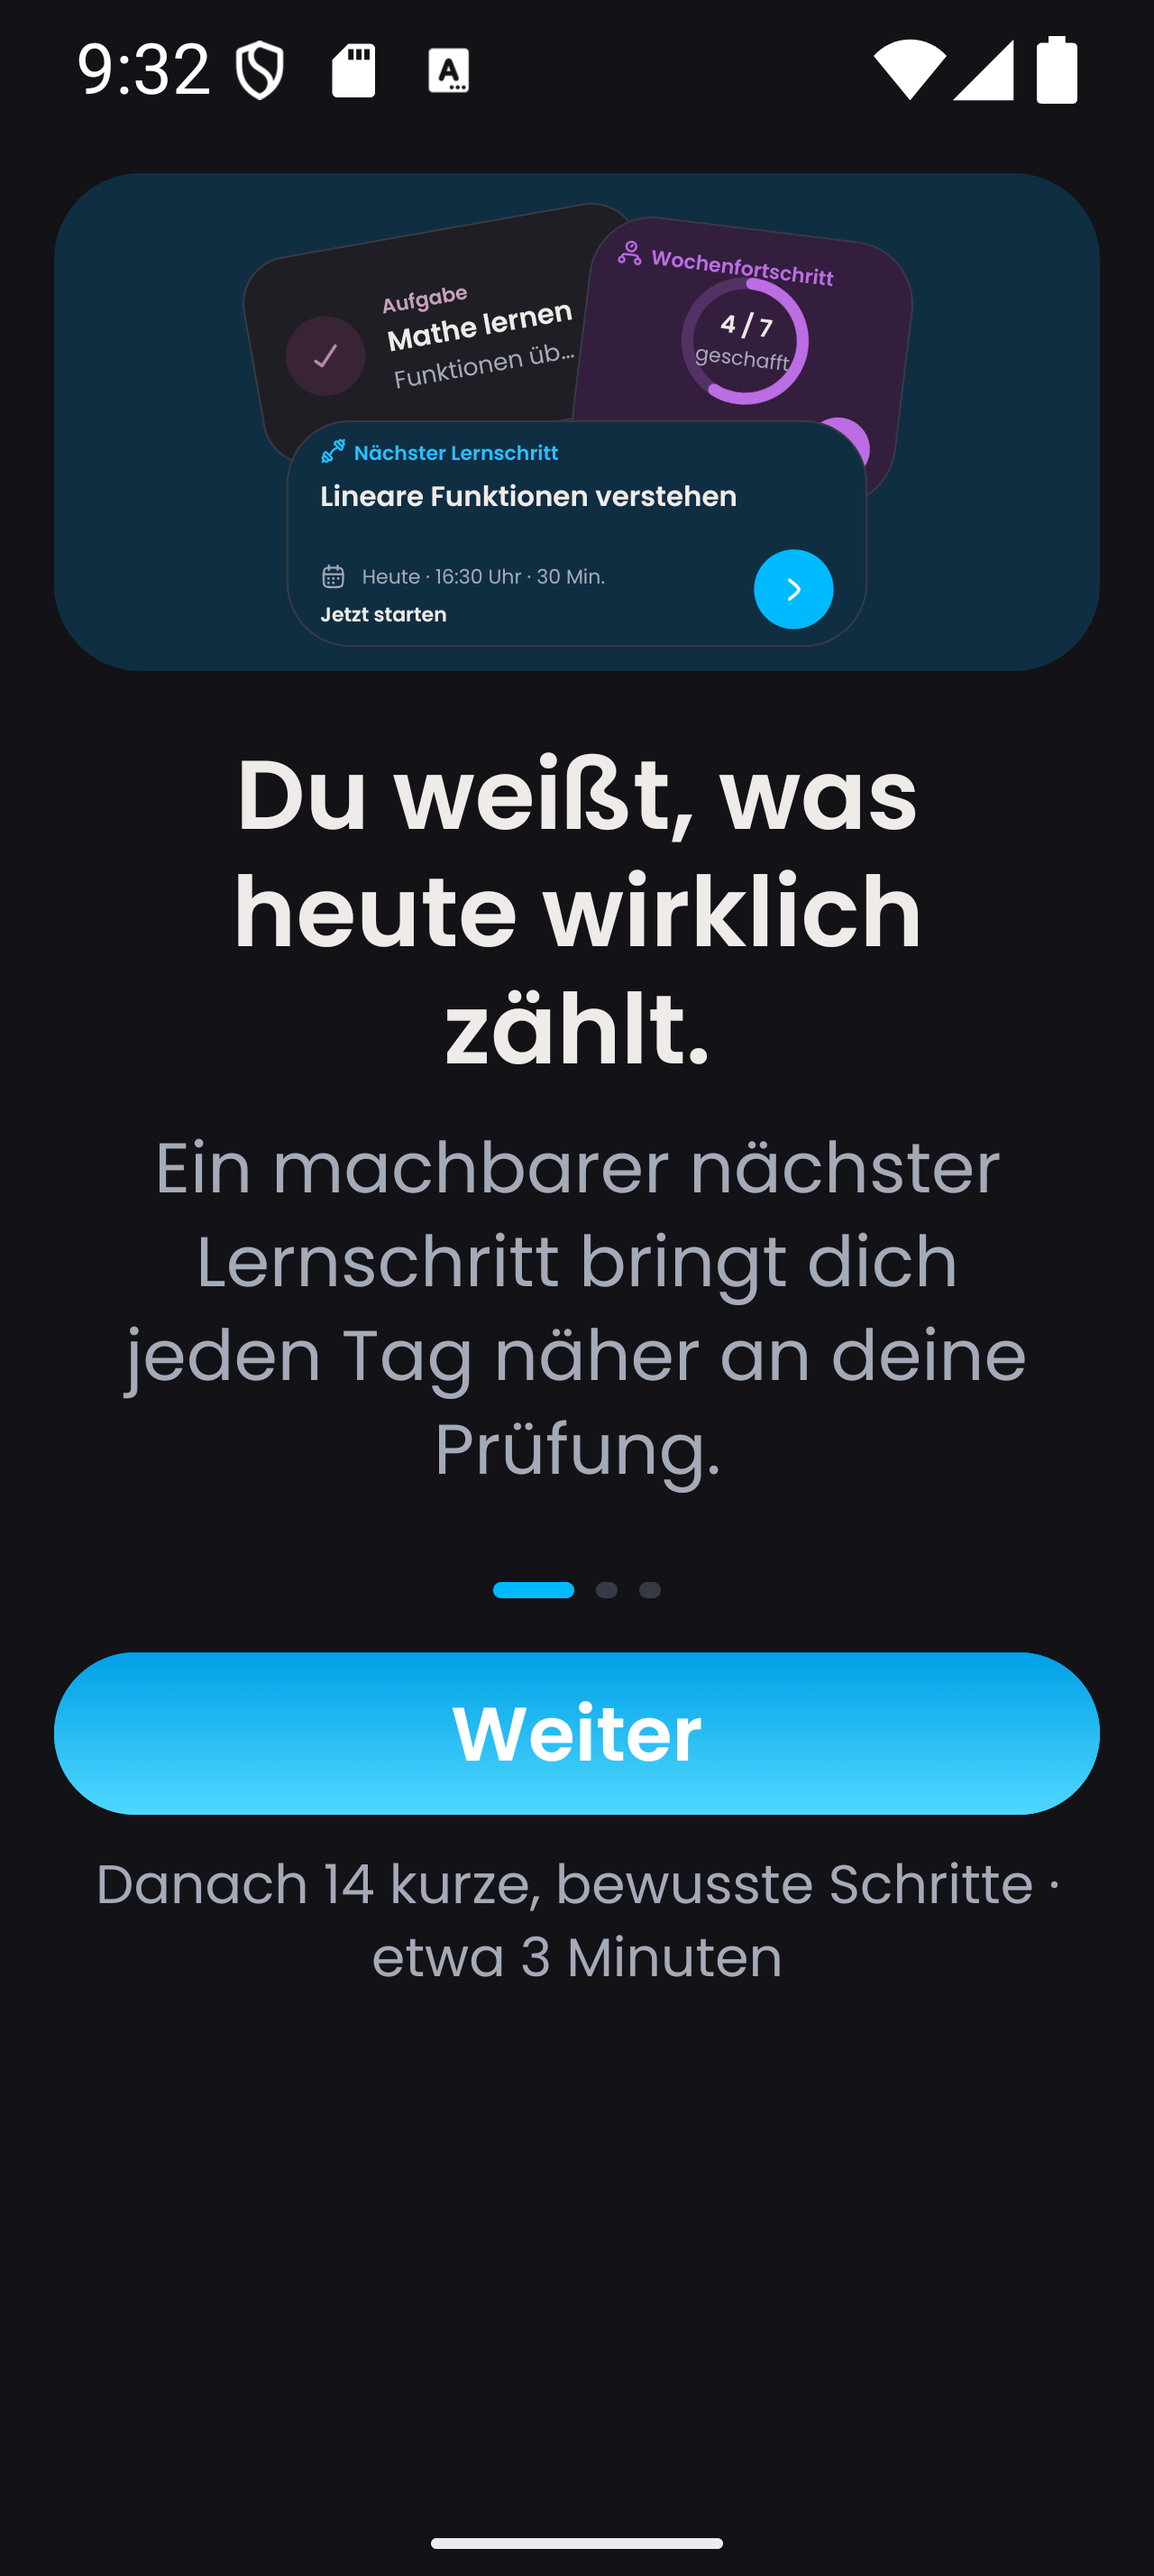
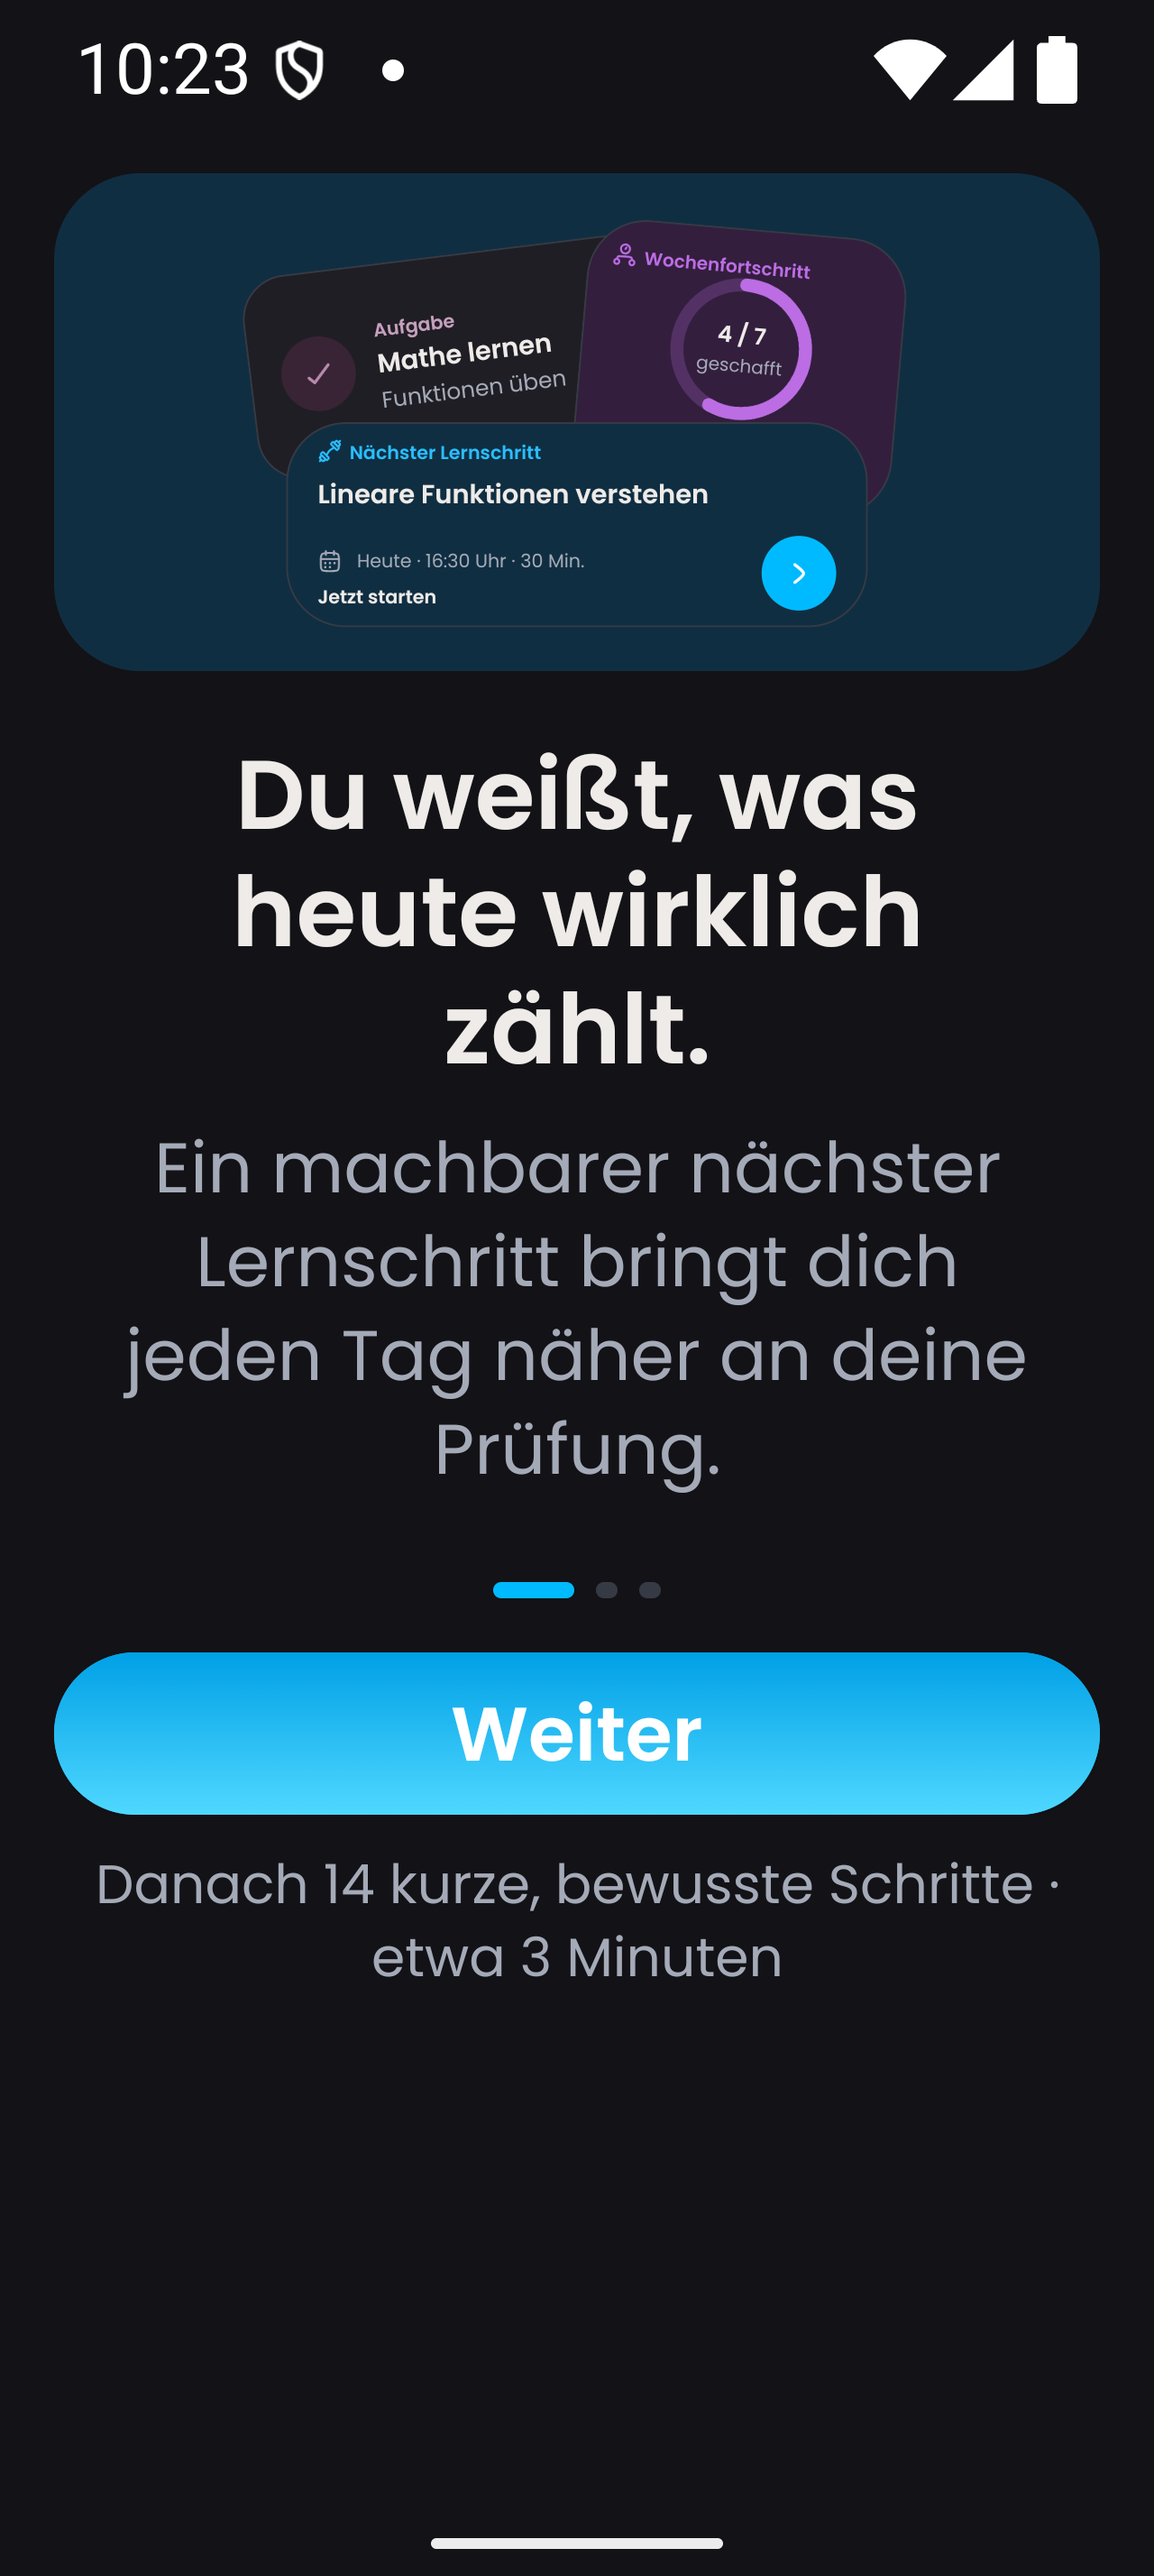
fix(onboarding): polish daily guidance artwork

diff --git a/src/features/dashboard/dashboard-product-cards.tsx b/src/features/dashboard/dashboard-product-cards.tsx
@@ -342,8 +342,8 @@ function DashboardWeeklyProgressCard(props: DashboardWeeklyProgressCardProps) {
 		: hasPlannedSessions
 			? "geschafft"
 			: "geplant";
-	const ringSize = isArtwork ? 64 : 112;
-	const ringStrokeWidth = isArtwork ? 6 : 9;
+	const ringSize = isArtwork ? 76 : 112;
+	const ringStrokeWidth = isArtwork ? 7 : 9;
 	const ringRadius = (ringSize - ringStrokeWidth) / 2;
 	const ringCircumference = 2 * Math.PI * ringRadius;
 	const progressOffset =
@@ -364,7 +364,9 @@ function DashboardWeeklyProgressCard(props: DashboardWeeklyProgressCardProps) {
 				/>
 				<Text
 					allowFontScaling={!isArtwork}
+					adjustsFontSizeToFit={isArtwork}
 					maxFontSizeMultiplier={isArtwork ? 1 : undefined}
+					minimumFontScale={isArtwork ? 0.82 : undefined}
 					className="flex-1 font-poppins font-semibold text-body-5 text-ueben"
 					numberOfLines={isArtwork ? 1 : 2}
 				>
@@ -382,6 +384,7 @@ function DashboardWeeklyProgressCard(props: DashboardWeeklyProgressCardProps) {
 					className="items-center justify-center"
 					// SVG ring geometry uses runtime dimensions for the artwork density.
 					style={{ width: ringSize, height: ringSize }}
+					testID={isArtwork ? "dashboard-progress-artwork-ring" : undefined}
 				>
 					<Svg
 						pointerEvents="none"
@@ -415,10 +418,12 @@ function DashboardWeeklyProgressCard(props: DashboardWeeklyProgressCardProps) {
 					</Svg>
 					<Text
 						allowFontScaling={!isArtwork}
+						adjustsFontSizeToFit={isArtwork}
 						maxFontSizeMultiplier={isArtwork ? 1 : undefined}
+						minimumFontScale={isArtwork ? 0.82 : undefined}
 						className={cn(
 							"font-poppins font-semibold text-text",
-							isArtwork ? "text-body-4" : "text-body-1",
+							isArtwork ? "max-w-16 text-center text-body-4" : "text-body-1",
 						)}
 						numberOfLines={1}
 						style={tabularNumberStyle}
@@ -427,8 +432,13 @@ function DashboardWeeklyProgressCard(props: DashboardWeeklyProgressCardProps) {
 					</Text>
 					<Text
 						allowFontScaling={!isArtwork}
+						adjustsFontSizeToFit={isArtwork}
 						maxFontSizeMultiplier={isArtwork ? 1 : undefined}
-						className="font-poppins text-body-5 text-secondary-text"
+						minimumFontScale={isArtwork ? 0.82 : undefined}
+						className={cn(
+							"font-poppins text-body-5 text-secondary-text",
+							isArtwork && "max-w-16 text-center",
+						)}
 						numberOfLines={1}
 					>
 						{ringLabel}
@@ -438,8 +448,9 @@ function DashboardWeeklyProgressCard(props: DashboardWeeklyProgressCardProps) {
 			<View
 				className={cn(
 					"flex-row items-end justify-between gap-2",
-					isArtwork ? "mt-1" : "mt-4",
+					isArtwork ? "mt-1 pr-3" : "mt-4",
 				)}
+				testID={isArtwork ? "dashboard-progress-artwork-footer" : undefined}
 			>
 				<View className="flex-1 flex-row items-center gap-2 pr-1">
 					{hasPlannedSessions && !isLoading ? (

diff --git a/src/features/dashboard/dashboard-product-cards.ui.test.tsx b/src/features/dashboard/dashboard-product-cards.ui.test.tsx
@@ -102,6 +102,36 @@ describe("shared dashboard product cards", () => {
 		expect(screen.queryAllByRole("button", hidden)).toHaveLength(0);
 	});
 
+	test("keeps artwork progress copy inside a legible ring and header row", async () => {
+		const screen = await render(
+			<DashboardWeeklyProgressCard
+				mode="artwork"
+				progress={progress}
+				testID="progress-artwork"
+			/>,
+		);
+		const hidden = { includeHiddenElements: true };
+
+		expect(
+			screen.getByTestId("dashboard-progress-artwork-ring", hidden),
+		).toHaveStyle({ width: 76, height: 76 });
+		expect(screen.getByText("Wochenfortschritt", hidden)).toHaveProp(
+			"adjustsFontSizeToFit",
+			true,
+		);
+		expect(screen.getByText("Wochenfortschritt", hidden)).toHaveProp(
+			"minimumFontScale",
+			0.82,
+		);
+		expect(screen.getByText("geschafft", hidden).props.className).toContain(
+			"max-w-16",
+		);
+		expect(
+			screen.getByTestId("dashboard-progress-artwork-footer", hidden).props
+				.className,
+		).toContain("pr-3");
+	});
+
 	test("keeps the live dashboard presentations interactive", async () => {
 		const onOpenAgenda = jest.fn();
 		const onOpenNext = jest.fn();
@@ -151,5 +181,8 @@ describe("shared dashboard product cards", () => {
 		expect(onOpenProgress).toHaveBeenCalledTimes(1);
 		expect(onOpenNext).toHaveBeenCalledWith(nextStep);
 		expect(onOpenFallback).not.toHaveBeenCalled();
+		expect(screen.getByText("geschafft").props.className).not.toContain(
+			"max-w-16",
+		);
 	});
 });

diff --git a/src/components/onboarding/intro-tasks-artwork.tsx b/src/components/onboarding/intro-tasks-artwork.tsx
@@ -10,7 +10,7 @@ import {
 	DashboardWeeklyProgressCard,
 } from "~/features/dashboard/dashboard-product-cards";
 
-const ARTWORK_WIDTH = 356;
+const ARTWORK_WIDTH = 380;
 const ARTWORK_HEIGHT = 242;
 const PREVIEW_DAY_KEY = "2026-08-31";
 
@@ -65,7 +65,7 @@ export function IntroTasksArtwork({
 			testID="intro-tasks-artwork"
 		>
 			<View
-				className="h-[242px] w-[356px]"
+				className="h-[242px] w-[380px]"
 				// The fixed artboard scales to the runtime frame while preserving its geometry.
 				style={{ transform: [{ scale }] }}
 				testID="intro-tasks-product-composition"
@@ -113,26 +113,26 @@ export function IntroTasksArtwork({
 // Product structure and tokens stay inside the shared dashboard components.
 const artworkGeometry = StyleSheet.create({
 	agenda: {
-		left: 6,
-		top: 42,
-		width: 202,
-		height: 106,
-		transform: [{ rotate: "-10deg" }],
+		left: 8,
+		top: 45,
+		width: 220,
+		height: 110,
+		transform: [{ rotate: "-7deg" }],
 		transformOrigin: [0, 0, 0],
 	},
 	progress: {
-		left: 188,
-		top: 14,
-		width: 164,
-		height: 134,
-		transform: [{ rotate: "7deg" }],
+		left: 198,
+		top: 10,
+		width: 172,
+		height: 150,
+		transform: [{ rotate: "5deg" }],
 		transformOrigin: [0, 0, 0],
 	},
 	nextStep: {
-		left: 32,
-		top: 120,
+		left: 34,
+		top: 121,
 		zIndex: 2,
-		width: 292,
-		height: 114,
+		width: 312,
+		height: 110,
 	},
 });

diff --git a/src/components/onboarding/intro-tasks-artwork.ui.test.tsx b/src/components/onboarding/intro-tasks-artwork.ui.test.tsx
@@ -63,23 +63,29 @@ describe("IntroTasksArtwork", () => {
 		const hidden = { includeHiddenElements: true };
 
 		expect(screen.getByTestId("intro-tasks-agenda-layer", hidden)).toHaveStyle({
-			left: 6,
-			top: 42,
-			transform: [{ rotate: "-10deg" }],
+			left: 8,
+			top: 45,
+			width: 220,
+			height: 110,
+			transform: [{ rotate: "-7deg" }],
 		});
 		expect(
 			screen.getByTestId("intro-tasks-progress-layer", hidden),
 		).toHaveStyle({
-			left: 188,
-			top: 14,
-			transform: [{ rotate: "7deg" }],
+			left: 198,
+			top: 10,
+			width: 172,
+			height: 150,
+			transform: [{ rotate: "5deg" }],
 		});
 		expect(
 			screen.getByTestId("intro-tasks-next-step-layer", hidden),
 		).toHaveStyle({
-			left: 32,
-			top: 120,
+			left: 34,
+			top: 121,
 			zIndex: 2,
+			width: 312,
+			height: 110,
 		});
 	});
 });

diff --git a/docs/evidence/day-292-onboarding/README.md b/docs/evidence/day-292-onboarding/README.md
@@ -16,6 +16,14 @@ rotation, scale, and shadow. All three shared cards use non-interactive,
 accessibility-hidden artwork mode, while their dashboard screen mode remains
 interactive.
 
+The final containment pass widens the composition artboard so the agenda and
+weekly-progress cards overlap without obscuring their primary copy. Artwork
+mode uses a larger progress ring, bounded single-line labels, and a tucked
+action affordance; the foreground card fully owns the visual handoff. The
+result keeps `Wochenfortschritt`, `4 / 7`, and `geschafft` inside their intended
+bounds in light, dark, and Android `font_scale=2.0`, without changing the live
+dashboard card layout.
+
 This amendment supersedes every earlier `*-intro-learning-steps-shared.png`
 capture and the three-equal-session-card interpretation described below. The
 current Android code head is captured in
